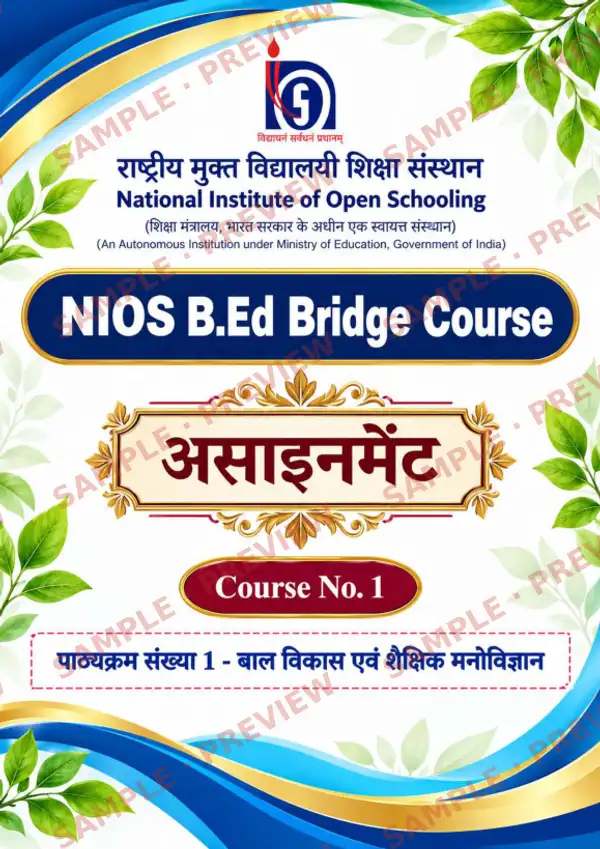
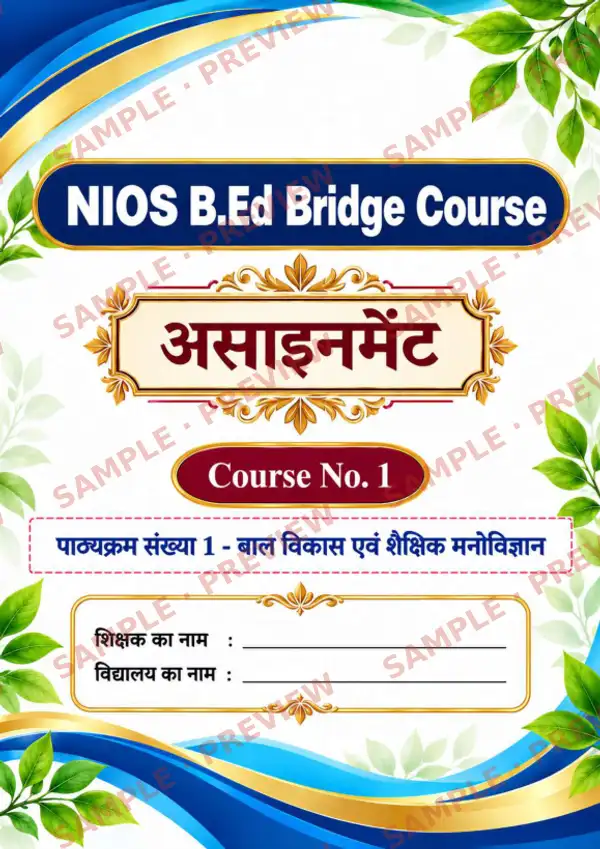
Bridge Course: new cover designs in the Assignment Combo
Seller sent updated covers (no institute logo/header; adds teacher-name and
school-name lines). Regenerated the cover previews and updated the page text.
The Teaching Plan file is unchanged.

Claude-Session: https://claude.ai/code/session_01XZ69XoEj2LFRUnG6JLpkma

diff --git a/bridge-course/src/pages/AssignmentCombo.tsx b/bridge-course/src/pages/AssignmentCombo.tsx
@@ -31,7 +31,7 @@ const copy: Record<Lang, {
     oneTime: 'एक बार का भुगतान · PDF',
     trust: ['19 पेज, A4', 'तुरंत डाउनलोड', 'सुरक्षित Razorpay भुगतान'],
     coversTitle: '7 असाइनमेंट कवर — हर कोर्स का अलग',
-    coversBody: 'हर कवर पर “NIOS B.Ed Bridge Course · असाइनमेंट”, कोर्स नंबर और पाठ्यक्रम का नाम छपा है। रंगीन प्रिंट में सबसे अच्छे लगते हैं।',
+    coversBody: 'हर कवर पर “NIOS B.Ed Bridge Course · असाइनमेंट”, कोर्स नंबर और पाठ्यक्रम का नाम छपा है, और शिक्षक का नाम व विद्यालय का नाम लिखने की जगह है। रंगीन प्रिंट में सबसे अच्छे लगते हैं।',
     course: (n) => `कोर्स ${n}`,
     insideTitle: 'शिक्षण योजना (12 पेज) में क्या है',
     inside: [
@@ -50,7 +50,7 @@ const copy: Record<Lang, {
     faqTitle: 'सवाल-जवाब',
     faqs: [
       { q: 'इस PDF में क्या-क्या है?', a: 'पहले 7 पेज: कोर्स 1 से 7 तक के असाइनमेंट कवर। उसके बाद 12 पेज: खाली शिक्षण योजना। कुल 19 पेज, A4 साइज़।' },
-      { q: 'क्या शिक्षण योजना भरी हुई है?', a: 'नहीं। यह खाली कॉपी (टेम्पलेट) है — इसे प्रिंट करके आप खुद भरते हैं।' },
+      { q: 'क्या शिक्षण योजना भरी हुई है?', a: 'नहीं। यह खाली कॉपी (टेम्पलेट) है — इसे प्रिंट करके आप खुद भरते हैं। कवर पर अपना नाम और विद्यालय का नाम भी हाथ से लिखें।' },
       { q: 'क्या छपी हुई कॉपी घर आएगी?', a: 'नहीं। यह केवल डिजिटल PDF है, जिसे आप खुद प्रिंट करते हैं।' },
       { q: 'कितनी बार प्रिंट कर सकता/सकती हूँ?', a: 'अपने असाइनमेंट के लिए जितनी बार चाहें। PDF आगे बेचना या ग्रुप में शेयर करना मना है।' },
       { q: 'डाउनलोड कितनी बार होगा?', a: `भुगतान के बाद ${product.maxDownloads} बार डाउनलोड कर सकते हैं। PDF खुलते ही फ़ोन में सेव कर लें।` },
@@ -63,7 +63,7 @@ const copy: Record<Lang, {
     finalCta: `असाइनमेंट कॉम्बो पाएँ — ${P}`,
     docTitle: `असाइनमेंट कॉम्बो — 7 कवर + शिक्षण योजना PDF | ${P}`,
     subtitle: 'प्रिंट करने योग्य PDF · 19 पेज',
-    disclaimer: 'यह NIOS का आधिकारिक प्रकाशन नहीं है। कवर पर संस्थान और कोर्स का नाम केवल आपके असाइनमेंट की पहचान के लिए है।',
+    disclaimer: 'यह NIOS का आधिकारिक प्रकाशन नहीं है। कवर पर कोर्स का नाम केवल आपके असाइनमेंट की पहचान के लिए है।',
   },
   en: {
     kicker: 'Bridge Course · Assignment combo',
@@ -74,7 +74,7 @@ const copy: Record<Lang, {
     oneTime: 'one-time · PDF',
     trust: ['19 pages, A4', 'Instant download', 'Secure Razorpay payment'],
     coversTitle: '7 assignment covers — one per course',
-    coversBody: 'Each cover reads “NIOS B.Ed Bridge Course · असाइनमेंट” with the course number and course name. They look best printed in colour.',
+    coversBody: 'Each cover reads “NIOS B.Ed Bridge Course · असाइनमेंट” with the course number and course name, plus lines for the teacher’s name and school name. They look best printed in colour.',
     course: (n) => `Course ${n}`,
     insideTitle: 'What’s in the Teaching Plan (12 pages)',
     inside: [
@@ -93,7 +93,7 @@ const copy: Record<Lang, {
     faqTitle: 'FAQ',
     faqs: [
       { q: 'What is in the PDF?', a: 'First 7 pages: assignment covers for Course 1 to 7. Then 12 pages: a blank Teaching Plan. 19 A4 pages in total.' },
-      { q: 'Is the Teaching Plan filled in?', a: 'No. It is a blank copy (template) — you print it and fill it in yourself.' },
+      { q: 'Is the Teaching Plan filled in?', a: 'No. It is a blank copy (template) — you print it and fill it in yourself. Write your name and school name on the covers by hand too.' },
       { q: 'Will a printed copy be delivered?', a: 'No. It is a digital PDF only; you print it yourself.' },
       { q: 'How many times can I print it?', a: 'As many times as you need for your own assignments. Reselling or sharing the PDF in groups is not allowed.' },
       { q: 'How many downloads do I get?', a: `You can download it ${product.maxDownloads} times after paying. Save the PDF on your phone as soon as it opens.` },
@@ -106,7 +106,7 @@ const copy: Record<Lang, {
     finalCta: `GET THE ASSIGNMENT COMBO — ${P}`,
     docTitle: `Assignment Combo — 7 Covers + Teaching Plan PDF | ${P}`,
     subtitle: 'Printable PDF · 19 pages',
-    disclaimer: 'This is not an official NIOS publication. The institution and course names on the covers are only there to label your assignments.',
+    disclaimer: 'This is not an official NIOS publication. The course names on the covers are only there to label your assignments.',
   },
 }
 
